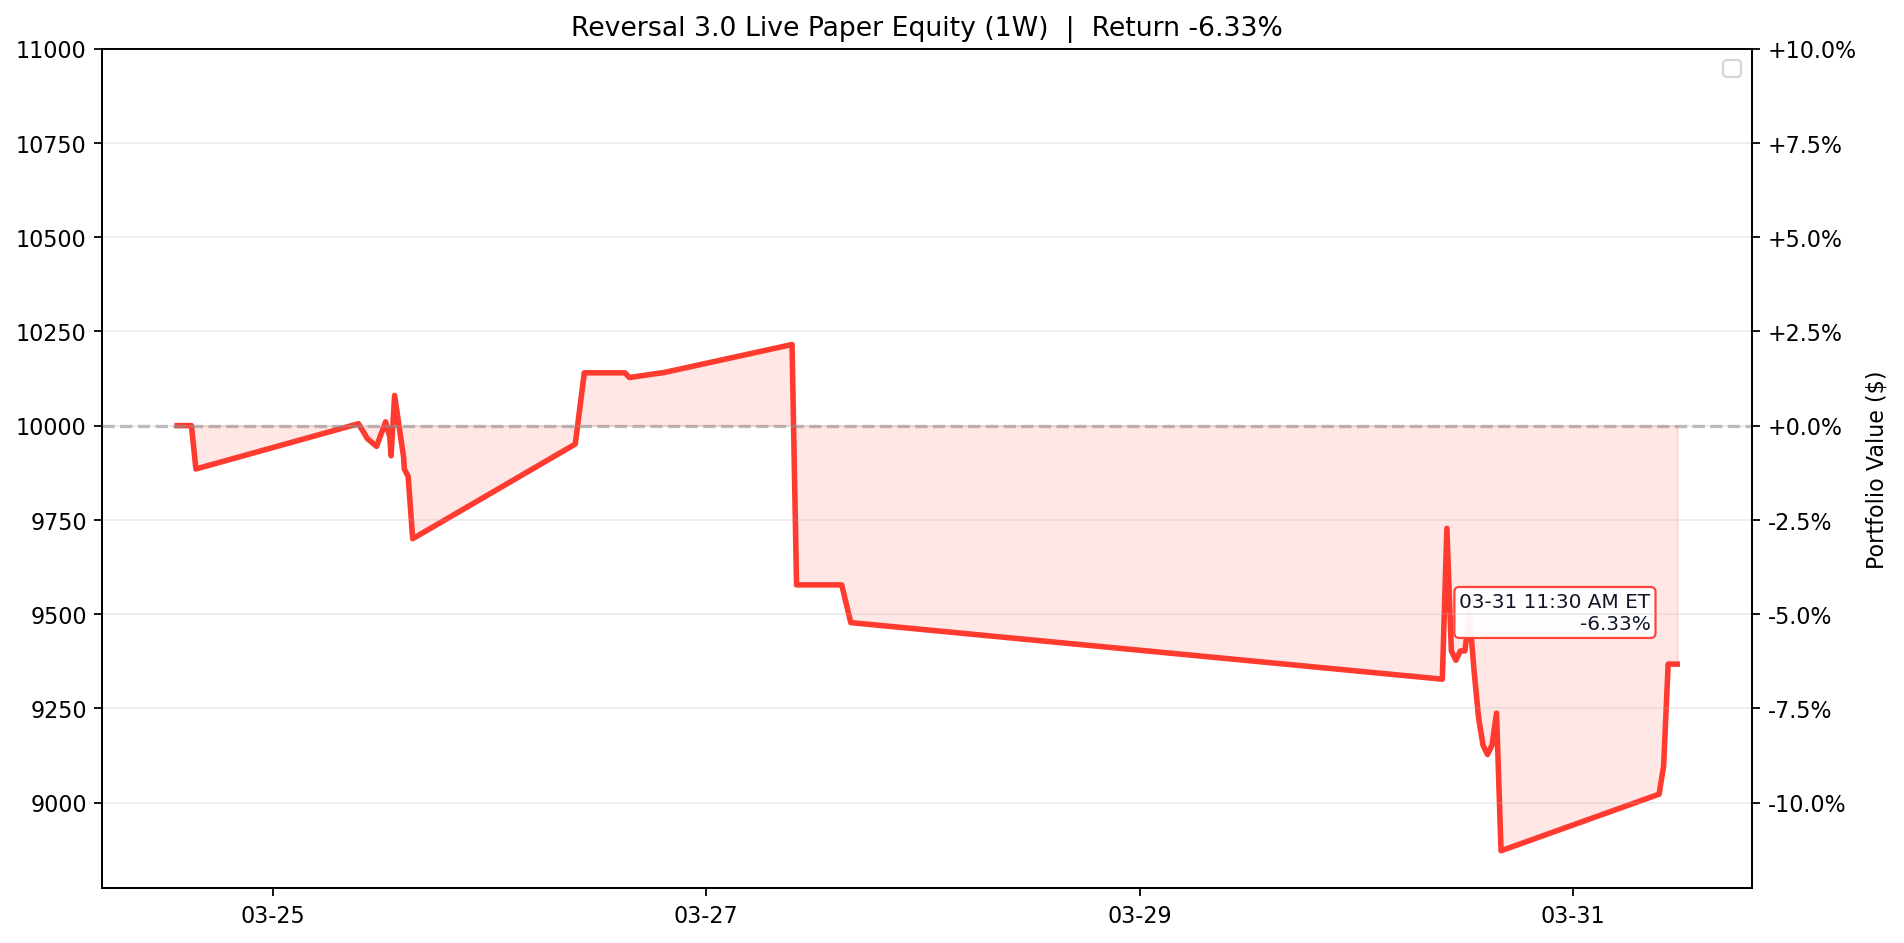
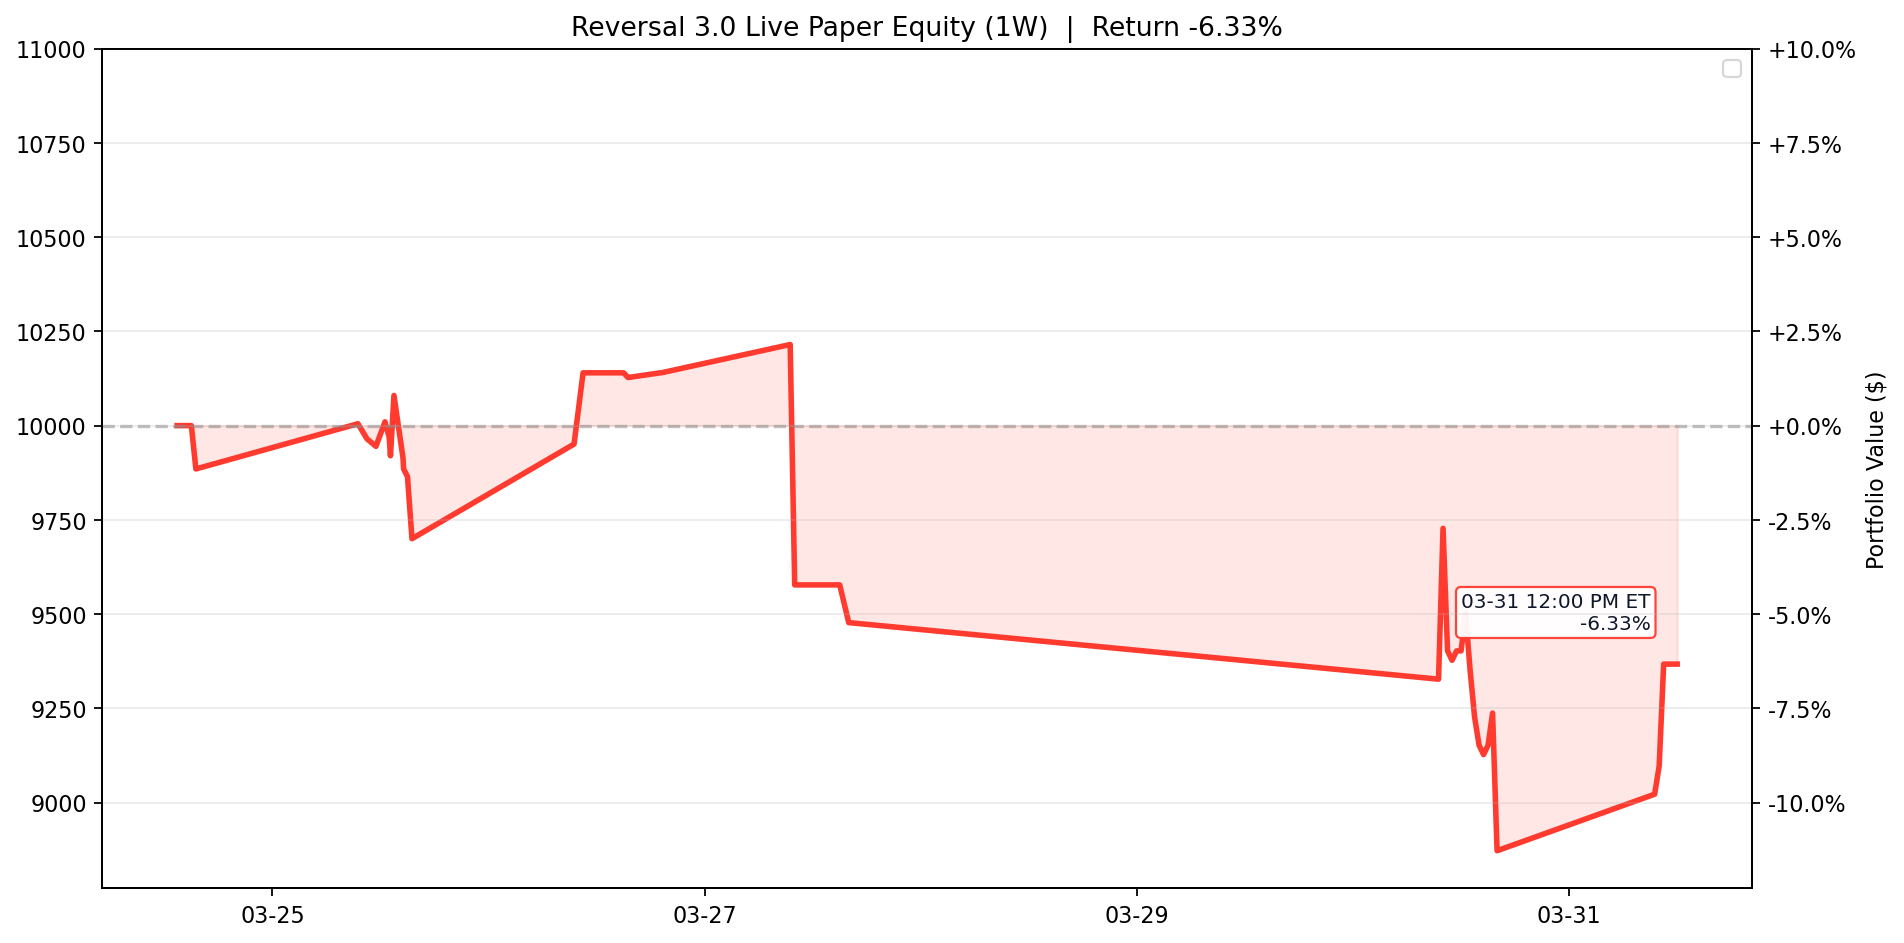
Update Reversal 3.0 live paper test 2026-03-31 12:00 ET

diff --git a/results/reversal_3_0_live/README.md b/results/reversal_3_0_live/README.md
@@ -1,7 +1,7 @@
 # Reversal 3.0 Live Paper Test
 
-Last updated (ET): `2026-03-31 11:30:05 EDT`
-Last processed slot: `manage_1130`
+Last updated (ET): `2026-03-31 12:00:03 EDT`
+Last processed slot: `manage_1200`
 
 ## Active Configuration
 
@@ -40,18 +40,18 @@ ticker     contract_symbol entry_trade_date_et exit_trade_date_et  entry_option_
 
 ```text
 ticker  success_rate_%  matched_signals  current_drop_%  target_rebound_$  target_price  rolling_sigma_20d_%  call_candidate
-   XEL           92.31               13            0.97              0.54         78.94                18.55            True
-   AEP           91.67               12            0.93              0.85        130.75                18.09            True
-  MDLZ           88.46               26            0.94              0.38         57.59                24.85            True
-   KDP           86.67               15            1.08              0.20         26.36                21.21            True
- CMCSA           85.00               20            1.49              0.30         28.77                29.21            True
-  CSCO           84.38               32            0.69              0.37         76.88                29.47            True
-   PEP           83.33               18            0.71              0.78        156.48                18.39            True
-   EXC           83.33               12            1.20              0.41         48.93                21.45            True
-   TRI           82.35               34            1.42              0.90         90.70                42.01            True
-  TMUS           81.82               11            1.99              2.97        212.67                19.67            True
-  CSGP           80.00               35            1.52              0.43         40.69                37.57            True
-   ADP           80.00               25            0.64              0.92        205.08                25.45            True
+   XEL           95.45               22            0.53              0.29         79.04                18.55            True
+   AEP           92.00               25            0.53              0.49        130.91                18.09            True
+   EXC           88.24               17            0.79              0.27         48.99                21.45            True
+    MU           86.11               36            0.78              1.76        321.04                74.70            True
+ CMCSA           85.71               21            1.30              0.26         28.79                29.21            True
+  MDLZ           84.21               19            1.37              0.55         57.51                24.85            True
+   PEP           83.33               12            1.10              1.20        156.30                18.39            True
+   TRI           82.86               35            1.25              0.80         90.75                42.01            True
+  MNST           82.35               34            0.57              0.28         71.20                21.53            True
+  CSCO           80.77               26            0.87              0.47         76.84                29.47            True
+   ADP           80.00               20            0.77              1.11        204.99                25.45            True
+   KDP           80.00               10            1.53              0.28         26.33                21.21            True
 ```
 
 ## Recent Events

diff --git a/README.md b/README.md
@@ -3,10 +3,10 @@
 <!-- reversal-3.0-live:start -->
 ## Reversal 3.0 Live Paper Test
 
-- Last updated (ET): `2026-03-31 11:30:05 EDT`
+- Last updated (ET): `2026-03-31 12:00:03 EDT`
 - Equity: `$9,367.50` | Realized: `$-632.50` | Unrealized: `$0.00` | Open positions: `0`
 - Today closed trades: `1`
-- Current slot: `manage_1130`
+- Current slot: `manage_1200`
 - Chart: trailing `1W` with ET timestamps
 
 _None_
